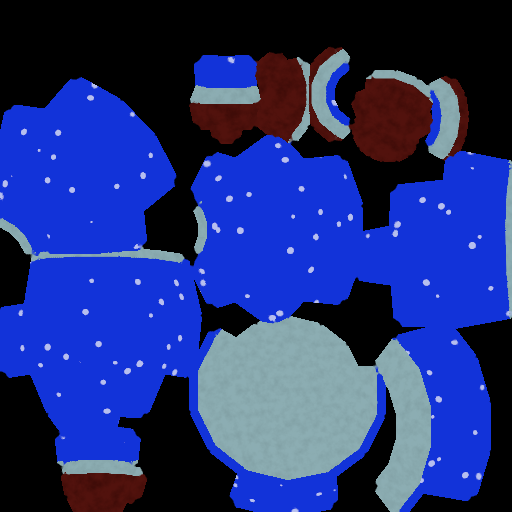
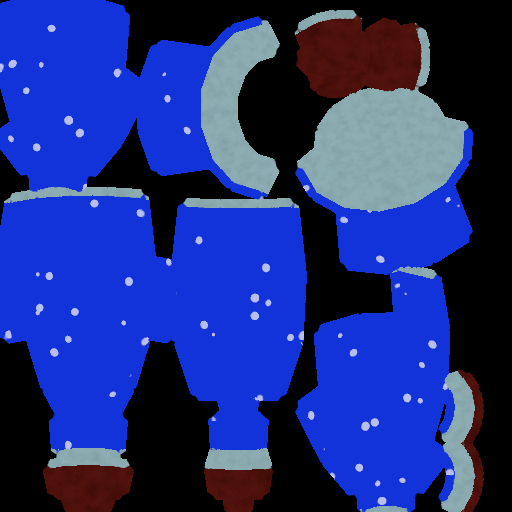
DOOM-0619: make the health-bonus flask slimmer
User 2026-11-20: "make the health vials slimmer". The flask is about
8 units wide, down from 11, at the same height. A rebake of the model
and its maps; no engine change. The rising bubbles the item asks for
are not built yet, and its roadmap note says so.

write-code: asset only; make and make test green (63 suites,
pickup_models_test among them); one Ultra rasterised capture at E1M1
looked at. Not run: the traced view.

diff --git a/ROADMAP.md b/ROADMAP.md
@@ -20117,6 +20117,14 @@ in CLAUDE.md describes.
   vials slimmer as well please." Two parts: the rising bubbles (this
   item, not built yet) and a slimmer flask in pickups/doom_bon1.py,
   which is a rebake and no engine change. Next after DOOM-0641.
+  2026-11-20: the slimmer flask is built (SLIM 0.72 in
+  pickups/doom_bon1.py: about 8 units wide, height kept); the user's
+  look is owed. Picture: Scratchpad d0641/c3/bon1-v0.png (E1M1, Ultra
+  rasterised). The rising bubbles are still not built. A way to build
+  them, not yet checked against the shaders: draw the bubbles in the
+  shader where a flagged model's glow map is lit, from a pattern that
+  moves up with a clock, and take the painted bubbles out of the bake.
+  pathtrace.comp has the clock (rippleTime); mesh.frag has none.
   **Layman:** The little bubbles inside the blue health vial drift upward instead of sitting still.
   Kind: feature.
   Source: user-request-2026-11-15.
